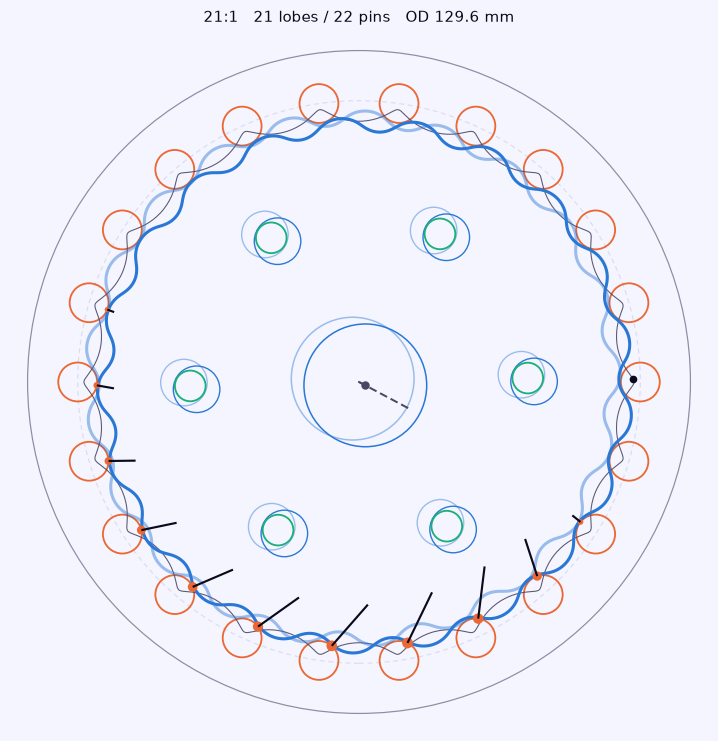
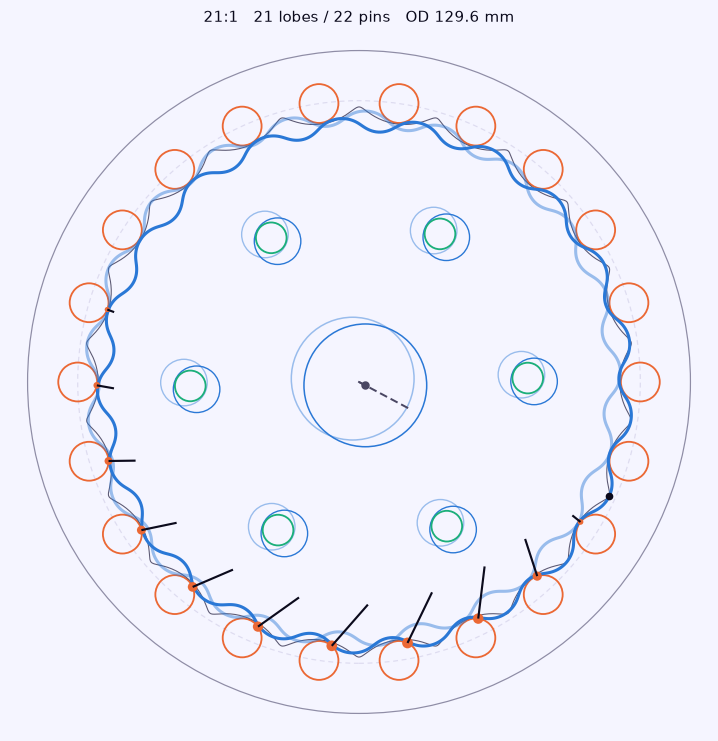
The traced point is on the disc it is traced on
The drawing's trace is the path of one point on the disc rim over an output
revolution, and its marker was put at the profile's outer radius on the
disc's own x axis. The profile has a root there, not a crest, so the point
rode 3.2 mm clear of the material - inside a ring pin at crank zero, which is
where docs/drawing.png showed it - and the curve drawn was the path of a
point that is not on the part.

It is now the drawn vertex furthest from the disc centre: a lobe crest, on
the outline at every crank angle, which a test checks on both output members
and which fails on the old placement. No number moves. The drawing and the
window screenshot that show it are redrawn; motion.gif draws no trace and is
unchanged. 1,306 tests.

diff --git a/cycloidgen/report/plots.py b/cycloidgen/report/plots.py
@@ -347,6 +347,14 @@ class ProfileView:
                             ha="center", va="center", zorder=6))
 
         self._profile = prof.profile_from_spec(spec)
+        # The point the trace follows: the drawn vertex furthest from the disc
+        # centre, which is a lobe crest and on the line the eye is following.
+        # It used to be the outer radius on the disc's x axis - but the profile
+        # has a *root* on that axis, so the marker rode three millimetres
+        # clear of the material, and at crank zero sat inside a ring pin.
+        points = self._profile.points
+        self._rim_point = points[int(np.argmax(np.hypot(points[:, 0],
+                                                        points[:, 1])))]
         self._discs = []
         bore_r = _disc_bore(spec) / 2.0
         hole_r = spec.output_hole_diameter / 2.0
@@ -467,13 +475,14 @@ class ProfileView:
             turns = spec.lobes
             phis = np.linspace(0.0, 2.0 * np.pi * turns,
                                int(np.clip(48 * turns, 720, 6000)))
-            # `to_world` spelled out for the whole sweep at once: the marker
-            # starts at (r, 0) in the disc frame, so its world position is the
-            # disc rotation applied to that plus the eccentric centre.
-            r, E = self._profile.outer_radius, spec.eccentricity
+            # `to_world` spelled out for the whole sweep at once: the disc
+            # rotation applied to the marker, plus the eccentric centre.
+            px, py = self._rim_point
+            E = spec.eccentricity
             delta = phis / spec.lobes
-            x = r * np.cos(delta) + E * np.cos(phis)
-            y = r * np.sin(delta) - E * np.sin(phis)
+            c, s = np.cos(delta), np.sin(delta)
+            x = px * c - py * s + E * np.cos(phis)
+            y = px * s + py * c - E * np.sin(phis)
             # Seen from the ground, which on a ring-output drive is a frame
             # turning under all of this: the locus is a different curve there,
             # and the one drawn has to be the one the eye can follow.
@@ -582,8 +591,7 @@ class ProfileView:
                                  [0.0, self._input_ray_length * np.sin(ray)])
 
         if self._trace_dot is not None:
-            point = to_world(np.array([[self._profile.outer_radius, 0.0]]),
-                             float(phi), E, lobes) @ turn
+            point = to_world(self._rim_point[None, :], float(phi), E, lobes) @ turn
             self._trace_dot.set_data(point[:, 0], point[:, 1])
 
         engaged = self._update_contacts(phi, turn)

diff --git a/tests/test_plots.py b/tests/test_plots.py
@@ -296,3 +296,23 @@ def test_both_caption_lines_say_what_they_have_always_said():
     assert "ring fixed" in view._speed.get_text()
     assert "rpm" in view._speed.get_text()
     assert "deg" in view._readout.get_text()
+
+
+@pytest.mark.parametrize("member", ["carrier", "ring"])
+def test_the_traced_point_is_on_the_disc_it_is_traced_on(member):
+    """The trace is the path of a point on the rim, so its marker has to be on
+    the rim at every angle.  It was placed at the outer radius on the disc's
+    own x axis, where the profile has a root: three millimetres off the disc,
+    and at crank zero inside a ring pin."""
+    from cycloidgen.core.spec import OutputMember
+
+    spec = preset(21)
+    if member == "ring":
+        spec.output_member = OutputMember.RING
+    view = plots.ProfileView(Figure())
+    view.set_design(spec, overlays=plots.Overlays(trace=True))
+    for crank in (0.0, 37.0, 140.0, 1000.0):
+        view.set_crank(crank)
+        outline = view._discs[0][0].get_xy()
+        dot = np.column_stack(view._trace_dot.get_data())
+        assert np.hypot(*(outline - dot).T).min() < 1e-6, crank

diff --git a/README.md b/README.md
@@ -50,7 +50,7 @@
   what motor you have and let it pick the reduction: a motor is a torque-speed
   curve, not the number on its label, and what it can turn is what the drive is
   worth.
-- **Nothing is asserted that is not verified.** 1,296 tests, and where two parts
+- **Nothing is asserted that is not verified.** 1,306 tests, and where two parts
   of the app describe the same gearbox they are checked against each other —
   the 3D mesh against the volume the exported solid encloses, the export
   manifest against the files that land on disk.
@@ -896,7 +896,7 @@ cycloidgen/
 docs/           the API reference and the README's figures
 tools/          what draws the banner, the icon, the logo assets, the
                 installer's bitmaps and the screenshots
-tests/          1,296 tests; the envelope, pin-in-hole, clearance-sign,
+tests/          1,306 tests; the envelope, pin-in-hole, clearance-sign,
                 mesh-versus-solid and animation-closes tests matter most
 ```
 
@@ -912,7 +912,7 @@ the Outputs tab, `--list-outputs` and the table above all read it.
 .venv\Scripts\python -m pytest -q
 ```
 
-1,296 tests, about 680 s. Most of that is CadQuery writing solids; the pure
+1,306 tests, about 700 s. Most of that is CadQuery writing solids; the pure
 analysis tests run in a few seconds. The Qt tests run headless
 (`QT_QPA_PLATFORM=offscreen`, set by the test modules themselves) and redirect
 preferences into a temporary file, so the suite cannot rearrange your own
